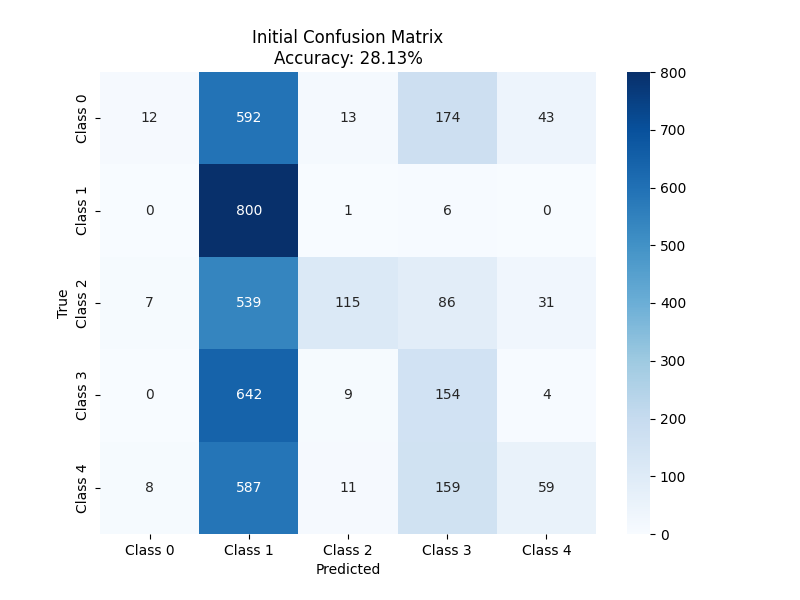
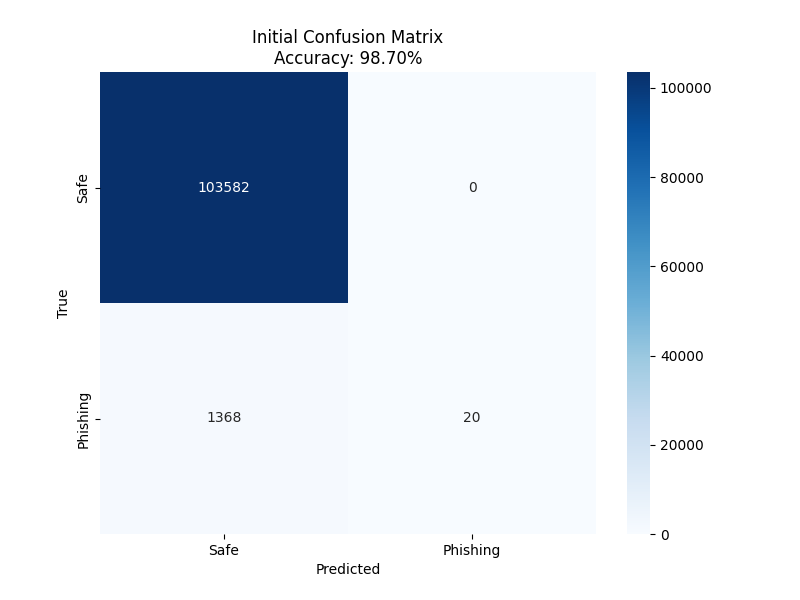
faut tou réparer -_-

diff --git a/ml/algos/ARTLab/labV3.py b/ml/algos/ARTLab/labV3.py
@@ -8,6 +8,7 @@ import torch.optim as optim
 from torch.utils.data import DataLoader, Dataset
 from sklearn.metrics import confusion_matrix, classification_report
 import seaborn as sns
+from copy import deepcopy
 
 # Decorator pour mes analyses de temps
 def timeit(method):
@@ -17,6 +18,7 @@ def timeit(method):
         te = time.time()
         print(f"[TIME] {method.__name__} executed in {(te - ts):.2f} seconds")
         return result, te - ts
+
     return timed
 
 torch.manual_seed(42)
@@ -25,7 +27,7 @@ np.random.seed(42)
 device = torch.device("cuda" if torch.cuda.is_available() else "cpu")
 print(f"[*] Using device: {device}")
 
-# Verif gpu parce que mskn sur le processeur ça prend 20 ans
+# Verification GPU
 if torch.cuda.is_available():
     print(f"[*] GPU Name: {torch.cuda.get_device_name(device)}")
     print(f"[*] CUDA Version: {torch.version.cuda}")
@@ -33,8 +35,29 @@ if torch.cuda.is_available():
 
 # Classe pour adapter au dataset
 class EmailDataset(Dataset):
-    def __init__(self, csv_file):
+    def __init__(self, csv_file, poisoned=False, poison_ratio=0.1, target_class=1):
         self.data = pd.read_csv(csv_file)
+        self.poisoned = poisoned
+        self.poison_ratio = poison_ratio
+        self.target_class = target_class
+
+        if poisoned:
+            self.poison_data()
+
+    def poison_data(self):
+        num_samples = len(self.data)
+        num_poison = int(self.poison_ratio * num_samples)
+        poison_indices = np.random.choice(num_samples, num_poison, replace=False)
+
+        for idx in poison_indices:
+            features = self.data.iloc[idx, :-1].values.astype(np.float32)
+            features[0] *= 1.5
+            features[1] += 3
+            features[2] = min(features[2] * 2, 1)
+            noise = np.random.normal(0, 0.1, len(features))
+            features += noise
+            self.data.iloc[idx, :-1] = features.astype(np.float32)
+            self.data.iloc[idx, -1] = self.target_class
 
     def __len__(self):
         return len(self.data)
@@ -46,19 +69,25 @@ class EmailDataset(Dataset):
 
 # Data preparation
 @timeit
-def prepare_data():
-    dataset = EmailDataset(csv_file='email_dataset.csv')
+def prepare_data(poisoned=False, poison_ratio=0.1):
+    clean_dataset = EmailDataset(csv_file='email-phishing-dataset/email_phishing_data.csv')
+    poisoned_dataset = EmailDataset(csv_file='email-phishing-dataset/email_phishing_data.csv',
+                                    poisoned=True, poison_ratio=poison_ratio)
 
-    train_size = int(0.8 * len(dataset))
-    test_size = len(dataset) - train_size
-    train_dataset, test_dataset = torch.utils.data.random_split(dataset, [train_size, test_size])
+    # Split datasets
+    train_size = int(0.8 * len(clean_dataset))
+    test_size = len(clean_dataset) - train_size
+
+    if poisoned:
+        # Utiliser le dataset empoisonné pour l'entraînement
+        train_dataset, test_dataset = torch.utils.data.random_split(poisoned_dataset, [train_size, test_size])
+    else:
+        train_dataset, test_dataset = torch.utils.data.random_split(clean_dataset, [train_size, test_size])
 
     train_loader = DataLoader(train_dataset, batch_size=32, shuffle=True)
     test_loader = DataLoader(test_dataset, batch_size=32, shuffle=False)
 
     return train_loader, test_loader, train_dataset, test_dataset
-
-(train_loader, test_loader, train_dataset, test_dataset), prep_time = prepare_data()
 
 # Les neuronnnnns - MLP
 class Net(nn.Module):
@@ -74,13 +103,8 @@ class Net(nn.Module):
         x = self.dropout(torch.relu(self.fc2(x)))
         return self.fc3(x)
 
-input_dim = train_dataset[0][0].shape[0]
-model = Net(input_dim).to(device)
-criterion = nn.CrossEntropyLoss()
-optimizer = optim.Adam(model.parameters(), lr=0.001)
-
 @timeit
-def train_model(model, train_loader, epochs=15):
+def train_model(model, train_loader, epochs=5):
     train_losses = []
     model.train()
 
@@ -109,30 +133,11 @@ def train_model(model, train_loader, epochs=15):
         train_losses.append(epoch_loss)
         epoch_time = time.time() - epoch_start
 
-        print(f"[+] Epoch {epoch + 1}/{epochs} - Loss: {epoch_loss:.4f} - Acc: {epoch_acc:.4f} - Time: {epoch_time:.2f}s")
+        print(
+            f"[+] Epoch {epoch + 1}/{epochs} - Loss: {epoch_loss:.4f} - Acc: {epoch_acc:.4f} - Time: {epoch_time:.2f}s")
 
     return train_losses
 
-print("[*] Training initial model...")
-train_losses, train_time = train_model(model, train_loader)
-
-# visu
-plt.figure(figsize=(12, 5))
-plt.subplot(1, 2, 1)
-plt.plot(train_losses, label='Training Loss')
-plt.xlabel('Epoch')
-plt.ylabel('Loss')
-plt.title('Training Loss Over Epochs')
-plt.legend()
-
-plt.subplot(1, 2, 2)
-plt.bar(['Training Time'], [train_time], color='blue')
-plt.ylabel('Time (seconds)')
-plt.title('Training Execution Time')
-plt.tight_layout()
-plt.savefig('img/training_metrics.png')
-
-# fonction d'évaluation
 @timeit
 def evaluate_model(model, dataloader, device):
     model.eval()
@@ -156,7 +161,7 @@ def evaluate_model(model, dataloader, device):
     cm = confusion_matrix(all_labels, all_preds)
     avg_inference_time = total_time / len(dataloader)
 
-    print("\n[*] Clean evaluation:")
+    print("\n[*] Evaluation:")
     print(f"Accuracy: {accuracy:.4f}")
     print(f"Average inference time per batch: {avg_inference_time:.4f} seconds")
     print("\nClassification Report:")
@@ -164,14 +169,160 @@ def evaluate_model(model, dataloader, device):
 
     return accuracy, cm, avg_inference_time
 
-(clean_acc, clean_cm, clean_time), eval_time = evaluate_model(model, test_loader, device)
+def plot_metrics(train_losses, cm, accuracy, title_suffix=""):
+    plt.figure(figsize=(12, 5))
+    plt.subplot(1, 2, 1)
+    plt.plot(train_losses, label='Training Loss')
+    plt.xlabel('Epoch')
+    plt.ylabel('Loss')
+    plt.title(f'Training Loss Over Epochs {title_suffix}')
+    plt.legend()
 
-# les matriceuuuuu
-plt.figure(figsize=(8, 6))
-sns.heatmap(clean_cm, annot=True, fmt='d', cmap='Blues',
-            xticklabels=['Safe', 'Phishing'],
-            yticklabels=['Safe', 'Phishing'])
-plt.title('Initial Confusion Matrix\nAccuracy: {:.2f}%'.format(clean_acc * 100))
-plt.xlabel('Predicted')
-plt.ylabel('True')
-plt.savefig('img/initial_confusion_matrix.png')
+    plt.subplot(1, 2, 2)
+    sns.heatmap(cm, annot=True, fmt='d', cmap='Blues',
+                xticklabels=['Safe', 'Phishing'],
+                yticklabels=['Safe', 'Phishing'])
+    plt.title(f'Confusion Matrix {title_suffix}\nAccuracy: {accuracy:.2f}%')
+    plt.xlabel('Predicted')
+    plt.ylabel('True')
+
+    plt.tight_layout()
+    plt.savefig(f'./results/poisoning/metrics_{title_suffix.lower().replace(" ", "_")}.png')
+
+def defense_data_cleaning(dataset, model, device, threshold=0.5):
+    clean_data = []
+    suspicious_indices = []
+
+    dataloader = DataLoader(dataset, batch_size=32, shuffle=False)
+    model.eval()
+
+    with torch.no_grad():
+        for i, (inputs, labels) in enumerate(dataloader):
+            inputs = inputs.to(device)
+            outputs = model(inputs)
+            probabilities = torch.softmax(outputs, dim=1)
+
+            max_probs, _ = torch.max(probabilities, dim=1)
+            suspicious = (max_probs < threshold).cpu().numpy()
+
+            for j in range(inputs.size(0)):
+                if not suspicious[j]:
+                    clean_data.append((inputs[j].cpu().numpy().astype(np.float32), labels[j].item()))
+                else:
+                    suspicious_indices.append(i * 32 + j)
+
+    clean_features = np.array([x[0] for x in clean_data])
+    clean_labels = np.array([x[1] for x in clean_data])
+
+    clean_df = pd.DataFrame(clean_features)
+    clean_df['label'] = clean_labels
+
+    return EmailDataset.from_df(clean_df), suspicious_indices
+
+# Ajout d'une méthode from_df pour notre classe Dataset
+@classmethod
+def from_df(cls, df):
+    instance = cls.__new__(cls)
+    instance.data = df
+    instance.poisoned = False
+    instance.poison_ratio = 0
+    instance.target_class = None
+    return instance
+
+EmailDataset.from_df = from_df
+
+## Expérience 1: Modèle propre
+print("\n" + "=" * 50)
+print("[*] Entraînement du modèle initial (non empoisonné)")
+print("=" * 50 + "\n")
+
+# Préparation des données propres
+(train_loader, test_loader, train_dataset, test_dataset), prep_time = prepare_data(poisoned=False)
+
+# Création et entraînement du modèle
+input_dim = train_dataset[0][0].shape[0]
+clean_model = Net(input_dim).to(device)
+criterion = nn.CrossEntropyLoss()
+optimizer = optim.Adam(clean_model.parameters(), lr=0.001)
+
+print("[*] Training clean model...")
+clean_train_losses, clean_train_time = train_model(clean_model, train_loader)
+
+# Évaluation
+print("\n[*] Evaluating clean model on clean test data...")
+(clean_acc, clean_cm, clean_time), _ = evaluate_model(clean_model, test_loader, device)
+plot_metrics(clean_train_losses, clean_cm, clean_acc * 100, "Clean Model")
+
+## Expérience 2: Modèle empoisonné
+print("\n" + "=" * 50)
+print("[*] Entraînement du modèle empoisonné (10% de données empoisonnées)")
+print("=" * 50 + "\n")
+
+# Préparation des données empoisonnées
+poison_ratio = 0.1  # 10% des données d'entraînement sont empoisonnées
+(poisoned_train_loader, poisoned_test_loader, poisoned_train_dataset, poisoned_test_dataset), _ = prepare_data(
+    poisoned=True, poison_ratio=poison_ratio)
+
+# Création et entraînement du modèle empoisonné
+poisoned_model = Net(input_dim).to(device)
+optimizer = optim.Adam(poisoned_model.parameters(), lr=0.001)
+
+print("[*] Training poisoned model...")
+poisoned_train_losses, poisoned_train_time= train_model(poisoned_model, poisoned_train_loader)
+
+# Évaluation sur des données propres
+print("\n[*] Evaluating poisoned model on clean test data...")
+# Nous utilisons le test_loader original (non empoisonné) pour l'évaluation
+(poisoned_acc, poisoned_cm, poisoned_time), _ = evaluate_model(poisoned_model, test_loader, device)
+plot_metrics(poisoned_train_losses, poisoned_cm, poisoned_acc * 100, "Poisoned Model")
+
+## Expérience 3: Défense par nettoyage des données
+print("\n" + "=" * 50)
+print("[*] Test de la défense par nettoyage des données")
+print("=" * 50 + "\n")
+
+print("[*] Applying data cleaning defense...")
+cleaned_dataset, suspicious_indices = defense_data_cleaning(
+    poisoned_train_dataset, clean_model, device, threshold=0.7)
+
+print(
+    f"[*] Found {len(suspicious_indices)} suspicious samples ({(len(suspicious_indices) / len(poisoned_train_dataset)) * 100:.2f}%)")
+
+cleaned_train_loader = DataLoader(cleaned_dataset, batch_size=32, shuffle=True)
+
+defended_model = Net(input_dim).to(device)
+optimizer = optim.Adam(defended_model.parameters(), lr=0.001)
+
+print("[*] Training defended model...")
+(defended_train_losses, defended_train_time), _ = train_model(defended_model, cleaned_train_loader)
+
+print("\n[*] Evaluating defended model on clean test data...")
+(defended_acc, defended_cm, defended_time), _ = evaluate_model(defended_model, test_loader, device)
+plot_metrics(defended_train_losses, defended_cm, defended_acc * 100, "Defended Model")
+
+print("\n" + "=" * 50)
+print("[*] Analyse comparative des modèles")
+print("=" * 50 + "\n")
+
+results = pd.DataFrame({
+    'Model': ['Clean', 'Poisoned', 'Defended'],
+    'Accuracy': [clean_acc, poisoned_acc, defended_acc],
+    'Training Time': [clean_train_time, poisoned_train_time, defended_train_time],
+    'Inference Time': [clean_time, poisoned_time, defended_time]
+})
+
+print(results)
+
+plt.figure(figsize=(10, 5))
+plt.subplot(1, 2, 1)
+plt.bar(results['Model'], results['Accuracy'])
+plt.title('Model Accuracy Comparison')
+plt.ylabel('Accuracy')
+
+plt.subplot(1, 2, 2)
+plt.bar(results['Model'], results['Training Time'])
+plt.title('Training Time Comparison')
+plt.ylabel('Time (seconds)')
+
+plt.tight_layout()
+plt.savefig('./results/poisoning/model_comparison.png')

diff --git a/ml/algos/ARTLab/labV2.py b/ml/algos/ARTLab/labV2.py
@@ -16,7 +16,7 @@ from art.estimators.classification import PyTorchClassifier
 from art.attacks.evasion import FastGradientMethod, ProjectedGradientDescent
 from art.defences.trainer import AdversarialTrainer
 
-# Decorator pour mes analyses de temps
+# Decorator pour les analyses de temps
 def timeit(method):
     def timed(*args, **kw):
         ts = time.time()
